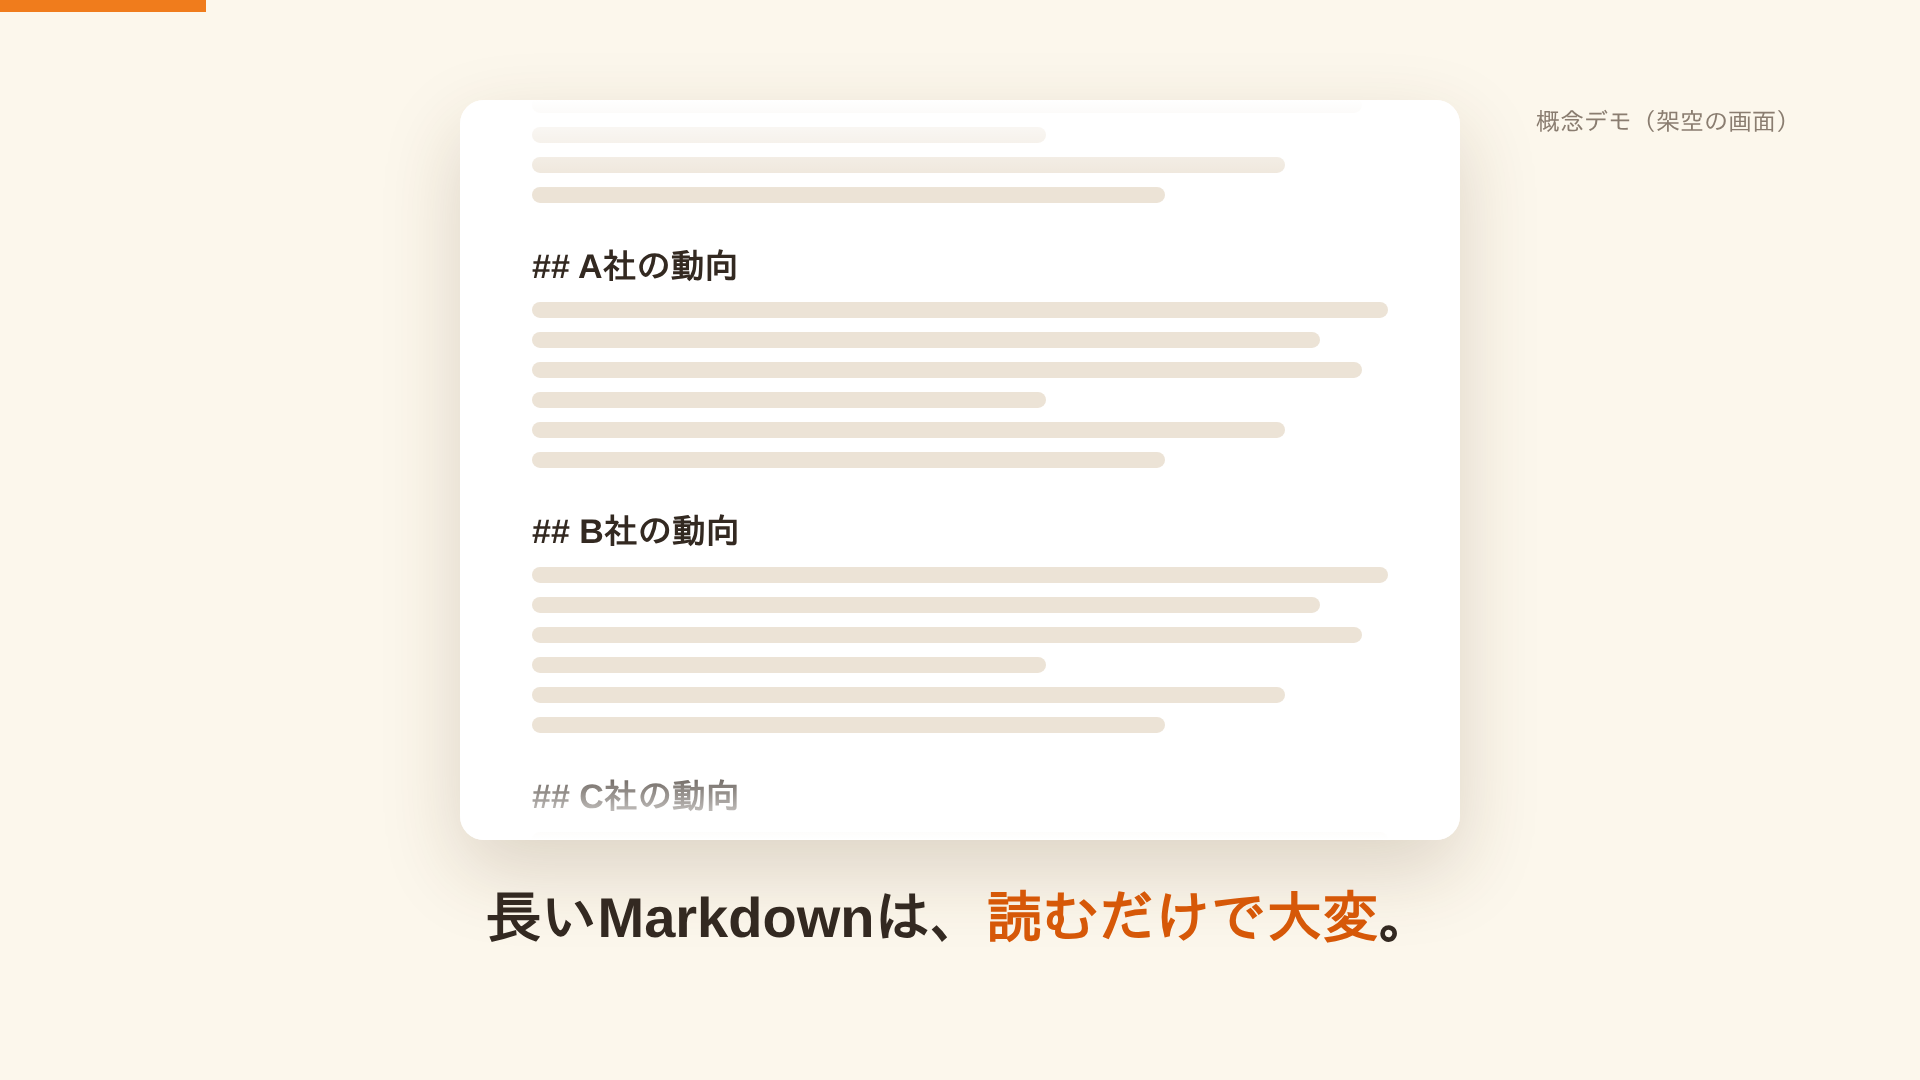
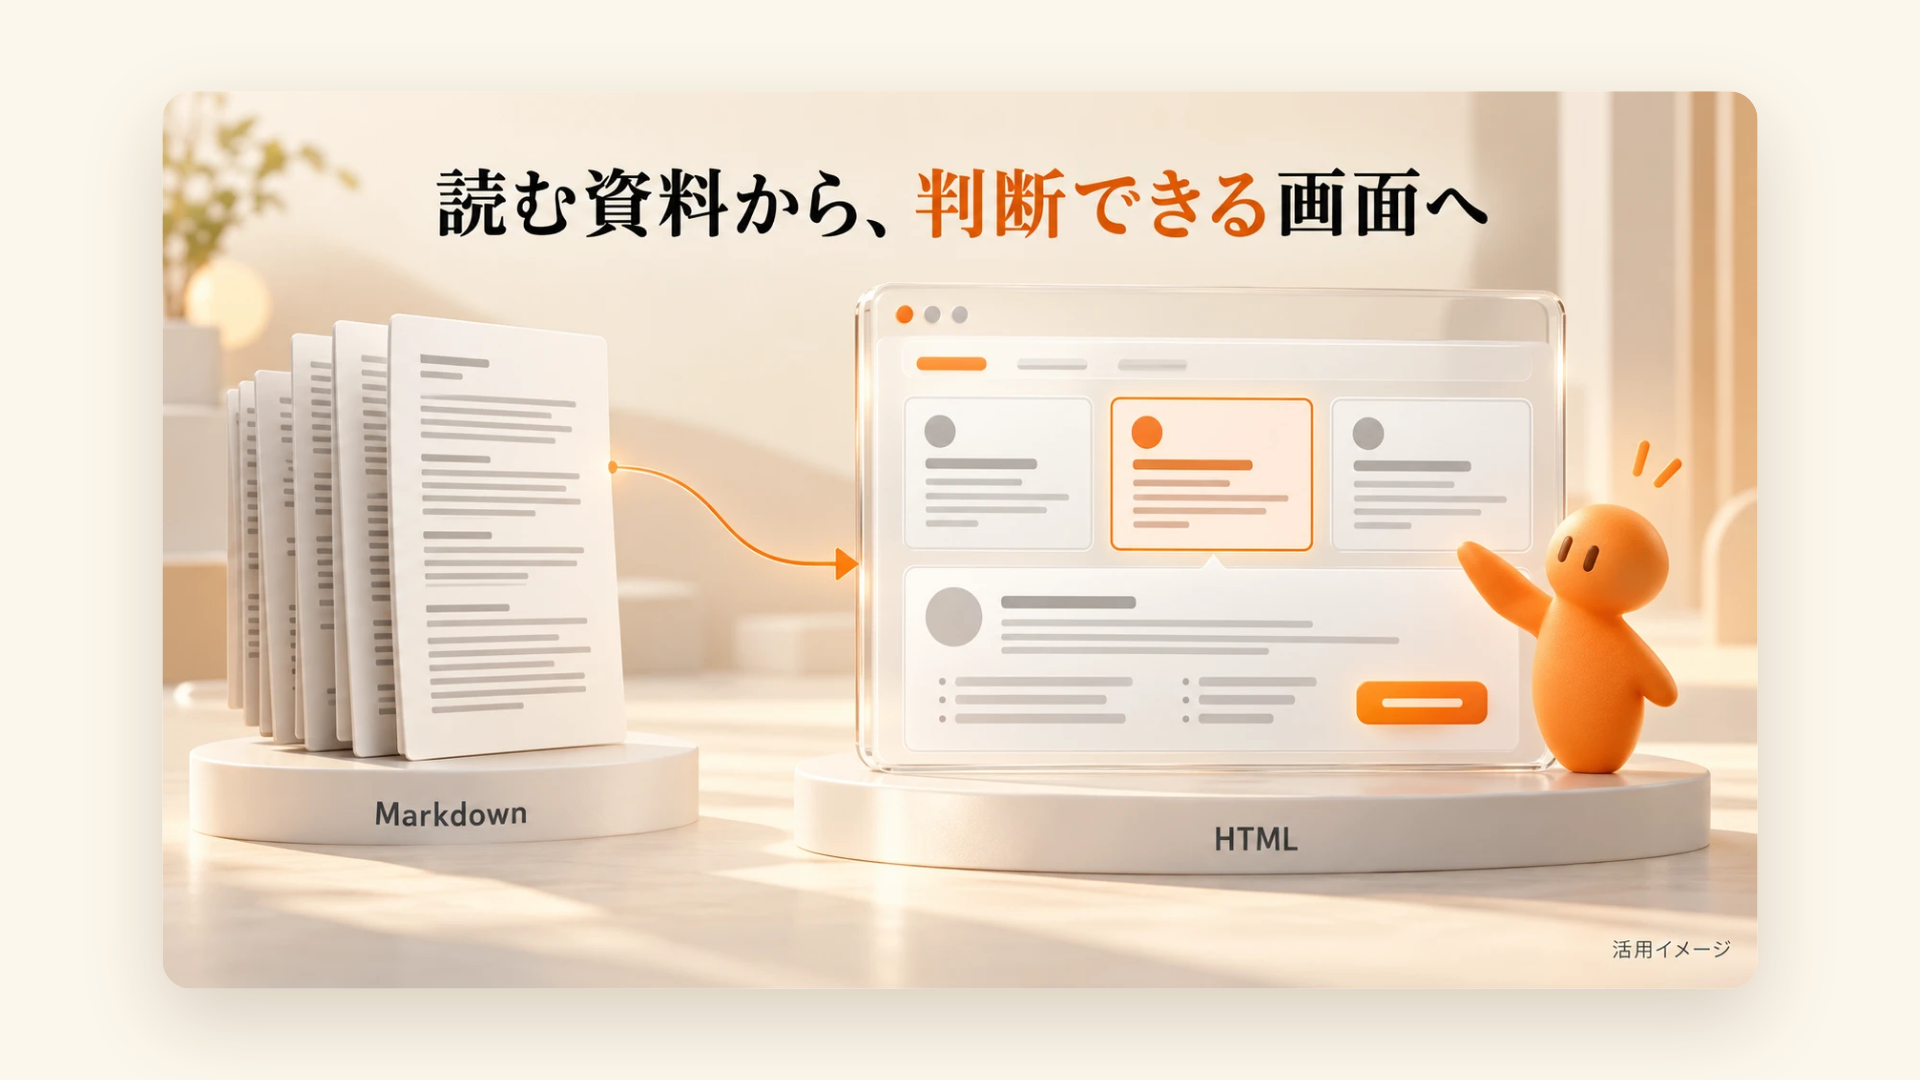
feat: デモ動画の冒頭に記事の概念画像を追加(17秒)
Claude-Session: https://claude.ai/code/session_01BTRd6nyQ5FvojqfiBRcFFR

diff --git a/video/demo/demo.html b/video/demo/demo.html
@@ -48,6 +48,7 @@ html,body{width:1920px;height:1080px;overflow:hidden;background:var(--ivory);fon
 </style></head><body>
 <div id="stage">
   <div id="bar"></div>
+  <img id="intro" src="../assets/article_visual.png" style="position:absolute;left:178px;top:100px;width:1564px;height:880px;border-radius:28px;box-shadow:0 30px 80px rgba(80,50,20,.2);opacity:0;transform-origin:50% 50%">
   <div id="title" class="abs">競合5社を、同じ画面で比べる</div>
   <div id="note">概念デモ（架空の画面）</div>
   <div id="report" class="abs"><div id="reportInner"></div><div id="fadeTop"></div><div id="fadeBot"></div></div>
@@ -140,5 +141,18 @@ function render(t){
  // 全体フェード(最後)
  $("stage").style.opacity=1-P(t,13.7,14);
 }
-window.render=render;render(0);
+const renderDemo=render, INTRO=3.0;
+function renderAll(t){
+  const im=$("intro");
+  if(t<INTRO){
+    const a=Math.min(P(t,0,.5),1-P(t,INTRO-.4,INTRO));
+    im.style.opacity=a;im.style.transform=`scale(${1+.04*P(t,0,INTRO)})`;
+    document.querySelectorAll("#stage > :not(#intro)").forEach(e=>e.style.visibility="hidden");
+  }else{
+    im.style.opacity=0;
+    document.querySelectorAll("#stage > :not(#intro)").forEach(e=>e.style.visibility="");
+    renderDemo(t-INTRO);
+  }
+}
+window.render=renderAll;renderAll(0);
 </script></body></html>

diff --git a/video/demo/render_demo.js b/video/demo/render_demo.js
@@ -2,15 +2,15 @@
 const { chromium } = require(process.argv[2]);
 const { spawn } = require("child_process");
 const path = require("path");
-const FPS = 30, DUR = 14, N = FPS * DUR;
-const out = path.join(__dirname, "..", "output", "ART-015_demo_report_to_cards_1920x1080_14s_silent.mp4");
+const FPS = 30, DUR = 17, N = FPS * DUR;
+const out = path.join(__dirname, "..", "output", "ART-015_demo_report_to_cards_1920x1080_17s_silent.mp4");
 (async () => {
   const b = await chromium.launch({ executablePath: "/opt/pw-browsers/chromium-1194/chrome-linux/chrome" });
   const pg = await b.newPage({ viewport: { width: 1920, height: 1080 } });
   await pg.goto("file://" + path.join(__dirname, "demo.html"));
   await pg.evaluate(() => document.fonts.ready);
   if (process.argv[3] === "--preview") {
-    for (const t of [1.5, 3.6, 5.5, 8.4, 9.7, 12.8]) {
+    for (const t of [1.5, 4.5, 6.6, 8.5, 11.4, 15.8]) {
       await pg.evaluate((t) => render(t), t);
       await pg.screenshot({ path: path.join(__dirname, "..", "output", "previews", `demo_${t}.png`) });
     }

diff --git a/video/demo/sound_demo.py b/video/demo/sound_demo.py
@@ -3,31 +3,34 @@
 import subprocess, wave
 from pathlib import Path
 src = (Path(__file__).resolve().parent.parent / "src" / "sound.py").read_text()
-head = src.split("mix = np.zeros(N)")[0].replace("SR, DUR = 44100, 35.0", "SR, DUR = 44100, 14.0")
+head = src.split("mix = np.zeros(N)")[0].replace("SR, DUR = 44100, 35.0", "SR, DUR = 44100, 17.0")
 g = {"__file__": str(Path(__file__).resolve().parent.parent / "src" / "sound.py")}
 exec(compile(head, "sound_head", "exec"), g)
 np, put, tick, whoosh, bell, N, SR, DUR, OUT = (g[k] for k in ["np", "put", "tick", "whoosh", "bell", "N", "SR", "DUR", "OUT"])
 mix = np.zeros(N)
-put(mix, whoosh(0.8), 2.5, 0.30)                      # レポートが縮んでカードに変わる
+putd = lambda m, x, t0, gain=1.0: put(m, x, t0 + 3.0, gain)  # 冒頭3秒の概念画像ぶん後ろへずらす
+putd(mix, tick(1180, 0.12), 0.5, 0.2)
+put(mix, whoosh(0.6), 2.55, 0.22)
+putd(mix, whoosh(0.8), 2.5, 0.30)                      # レポートが縮んでカードに変わる
 for i in range(5):
-    put(mix, tick(1000 + 90 * i, 0.14), 3.2 + i * 0.12 + 0.55, 0.22)   # カードが着地
+    putd(mix, tick(1000 + 90 * i, 0.14), 3.2 + i * 0.12 + 0.55, 0.22)   # カードが着地
 for t0, f in ((7.2, 900), (7.9, 980), (8.6, 1060)):
-    put(mix, tick(f, 0.08), t0, 0.12)                 # ホバー
-put(mix, tick(700, 0.1), 9.0, 0.30)                   # クリック
-put(mix, whoosh(0.6), 9.0, 0.22)                      # カードが開く
+    putd(mix, tick(f, 0.08), t0, 0.12)                 # ホバー
+putd(mix, tick(700, 0.1), 9.0, 0.30)                   # クリック
+putd(mix, whoosh(0.6), 9.0, 0.22)                      # カードが開く
 for i in range(4):
-    put(mix, tick(880 + 110 * i, 0.1), 11.2 + i * 0.35 + 0.3, 0.14)   # 操作チップ
-put(mix, bell(783.99, 1.4), 12.75, 0.18)
-put(mix, bell(1174.7, 1.2), 13.0, 0.14)
+    putd(mix, tick(880 + 110 * i, 0.1), 11.2 + i * 0.35 + 0.3, 0.14)   # 操作チップ
+putd(mix, bell(783.99, 1.4), 12.75, 0.18)
+putd(mix, bell(1174.7, 1.2), 13.0, 0.14)
 mix *= np.minimum(1, (DUR - np.arange(N) / SR) / 0.8)
 mix = mix / np.max(np.abs(mix)) * 0.98
 wav = OUT / "ART-015_demo_SE.wav"
 with wave.open(str(wav), "wb") as w:
     w.setnchannels(1); w.setsampwidth(2); w.setframerate(SR)
     w.writeframes((np.clip(mix, -1, 1) * 32767).astype("<i2").tobytes())
-a = OUT / "ART-015_demo_report_to_cards_1920x1080_14s_silent.mp4"
-b = OUT / "ART-015_demo_report_to_cards_1920x1080_14s_SE.mp4"
+a = OUT / "ART-015_demo_report_to_cards_1920x1080_17s_silent.mp4"
+b = OUT / "ART-015_demo_report_to_cards_1920x1080_17s_SE.mp4"
 subprocess.run(["ffmpeg", "-y", "-loglevel", "error", "-i", str(a), "-i", str(wav), "-map", "0:v", "-map", "1:a",
-                "-c:v", "copy", "-c:a", "aac", "-b:a", "192k", "-ar", "44100", "-ac", "2", "-t", "14",
+                "-c:v", "copy", "-c:a", "aac", "-b:a", "192k", "-ar", "44100", "-ac", "2", "-t", "17",
                 "-movflags", "+faststart", str(b)], check=True)
 print(b)

diff --git a/video/README.md b/video/README.md
@@ -32,4 +32,4 @@
 ## デモ動画: 長いレポート → 比較カード → 詳細(記事「ClaudeCodeはMarkdownよりHTML」向け)
 `demo/demo.html`(時間tで描画する決定論的アニメーション) + `demo/render_demo.js`(Playwrightで30fpsキャプチャ→FFmpeg)。
 `node demo/render_demo.js $(npm root -g)/playwright` で無音版、`python3 demo/sound_demo.py` で効果音版。
-14秒: 0-3秒 長いMarkdown(competitor-report.md)をスクロール → 3-4秒 カードに分解 → 4-9秒 競合5社(架空)を比較、カーソルでホバー → 9-14秒 C社を開き詳細と「選ぶ→理由→コピー→Claudeへ戻す」。
+17秒(冒頭3秒に記事の概念画像): 0-3秒 長いMarkdown(competitor-report.md)をスクロール → 3-4秒 カードに分解 → 4-9秒 競合5社(架空)を比較、カーソルでホバー → 9-14秒 C社を開き詳細と「選ぶ→理由→コピー→Claudeへ戻す」。
